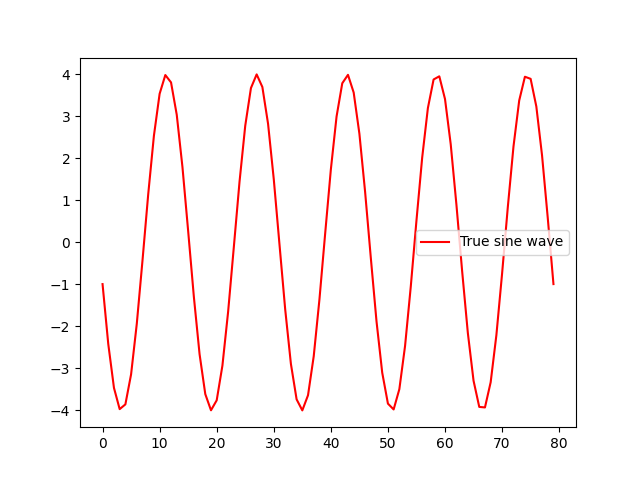
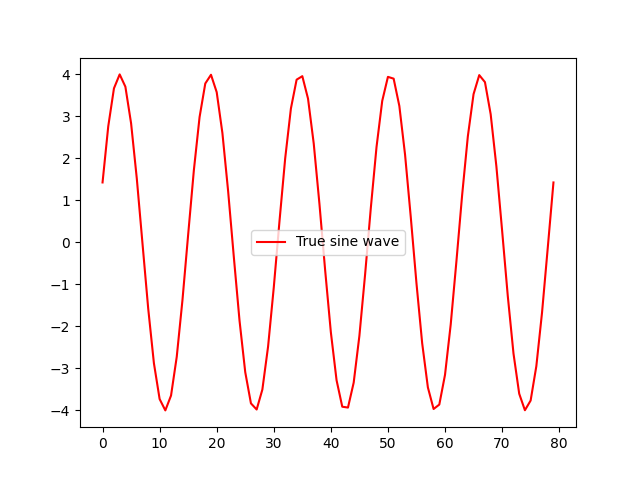
updated

diff --git a/src/network.py b/src/network.py
@@ -7,6 +7,33 @@ from modules import fsm
 import copy
 import numpy as np
 
+class LearnerRateScheduler:
+    def __init__(self, type, base_learning_rate, decay_rate, decay_steps, final_learning_rate = 0.0, warmup_epochs=10):
+        self.type = type
+        self.base_learning_rate = base_learning_rate
+        self.final_learning_rate = final_learning_rate
+        self.decay_rate = decay_rate
+        self.decay_steps = decay_steps
+        self.warmup_epochs = warmup_epochs
+        self.lr_init = 0.0
+    
+    def __call__(self, step):
+        if step < self.warmup_epochs:
+            #linear increase to base_learning_rate
+            return self.lr_init + (self.base_learning_rate-self.lr_init) * (step / self.warmup_epochs)
+        else:
+            if self.type == 'constant':
+                return self.base_learning_rate
+            elif self.type == 'linear':
+                pass
+            elif self.type == 'exponential':
+                pass
+            elif self.type == 'step':
+                return self.base_learning_rate * (self.decay_rate ** (int(step / self.decay_steps)))
+            else:
+                raise NotImplementedError
+            
+
 def get_weights(cfg, model):
     """Get the weights of the model.
 
@@ -89,7 +116,7 @@ def get_gradients(cfg, model, data, loss):
                 #perform the forward propagation step
                 y_perturbed = model_perturbed.forward(data)
                 #compute the loss
-                loss_perturbed = utils.mse_loss_seq(y_perturbed, data[:, :, -1:], batch_norm=True)
+                loss_perturbed = utils.mse_loss_seq(y_perturbed, data, batch_norm=True)
                 #compute the gradient
                 gradient_dict[key][index] = (loss_perturbed - loss) / cfg['training']['perturbation']
                 #after the gradient is computed, reset the weights to the original weights
@@ -143,30 +170,35 @@ def get_weight_updates(cfg, gradients, learning_rate):
     # return weight_updates
     
 
-def train(cfg, model, data, logger):
+def train(cfg, model, data, lr_schedule, logger):
     """Perform the training step.
 
     Args:
         cfg (config): config object
         model (model): model object. The model is expected to be initialized!
         data (np.ndarray): data array of shape (n_samples, n_timestamps, n_features)
+        lr_schedule (callable): learning rate scheduler function. The function should take the current epoch as input and return the learning rate.
         logger (logger): logger object to log the training process
     """
     epochs = cfg['training']['epochs']
-    learning_rate = cfg['training']['learning_rate']
     # gradient_computation = cfg['training']['gradient_computation']
-    optim = adam.Adam(lr=learning_rate)
+    optim = adam.Adam()
     for iter in range(epochs):
         output = model.forward(data['train']) # perform the forward propagation step
-        train_loss = utils.mse_loss_seq(output, data['train'][:, :, -1:], batch_norm=True)
+        train_loss = utils.mse_loss_seq(output, data['train'], batch_norm=True)
         gradients = get_gradients(cfg, model, data['train'], train_loss) # compute the gradients
-        weight_updates = get_weight_updates(cfg, gradients, learning_rate) # get the actual updates from the gradients
-        update_model_weights(cfg, model, weight_updates) # update the weights of the model
-        # params = optim.update(get_weights(cfg, model), weight_updates)
-        # set_weights(cfg, model, params)
+        # if learning_rate == 'auto':
+        #     weight_updates = get_weight_updates(cfg, gradients, lr_schedule(iter)) # get the actual updates from the gradients
+        # else:
+        #     weight_updates = get_weight_updates(cfg, gradients, learning_rate) # get the actual updates from the gradients
+            
+        # update_model_weights(cfg, model, weight_updates) # update the weights of the model
+        params = optim.update(get_weights(cfg, model), gradients, lr=lr_schedule(iter))
+        set_weights(cfg, model, params)
+        
         #fsm_model = fsm.FSM(model, state  = 'generate') # estimating the validation sequence
         # output_val = fsm_model(data['val'][:, 0:1, :], time = data['val'].shape[1])
         output_val = model.forward(data['val'])
-        val_loss = utils.mse_loss_seq(output_val, data['val'][:, :, -1:], batch_norm=True)
+        val_loss = utils.mse_loss_seq(output_val, data['val'], batch_norm=True)
         # del fsm_model # delete the fsm model since its not required anymore
         logger.log_epoch(iter, train_loss, val_loss) # log the mse_loss and store it in a file

diff --git a/src/main.py b/src/main.py
@@ -8,7 +8,27 @@ import network
 import logger
 from optimizer import adam, rmsprop
 from modules import fsm
+from network import LearnerRateScheduler
+from config import cfg
 
+
+
+lr_schedule = LearnerRateScheduler(cfg['training']['learning_rate'],0.1, 0.7, 20)
+plt.figure(figsize=(12, 5))
+plt.subplot(121)
+plt.plot([i for i in range(1, 1001)],[lr_schedule(i) for i in range(1000)], marker='.', linestyle='-')
+plt.title("Learning rate schedule")
+plt.xlabel("Epochs")
+plt.ylabel("Learning rate")
+plt.grid(True)
+plt.subplot(122)
+plt.semilogx([i for i in range(1, 1001)], [lr_schedule(i) for i in range(1000)], marker='.', linestyle='-')
+plt.title("Learning rate schedule (log scale)")
+plt.xlabel("Epochs")
+plt.ylabel("Learning rate")
+plt.grid(True)
+plt.savefig('src\\experiment1\\output\\figures\\learning_rate_schedule.png')
+plt.show()
 
 sine = sine_wave.SineWaveLoader(n_samples=100, time_stamps=80, amplitude=4.0, frequency=20.0)
 sine.load_data(attention = 0) # sine_wave_dict is of the size (train, test, val) x (n_samples, n_timesteps, n_features)
@@ -21,7 +41,6 @@ plt.legend()
 plt.savefig('src\\experiment1\\output\\figures\\input_data.png')
 plt.show()
 
-cfg = config.get_cfg()
 model_name = cfg['model']['name']
 input_size = cfg['model']['input_size']
 output_size = cfg['model']['output_size']
@@ -30,10 +49,12 @@ seed = cfg['training']['seed']
 
 log_file = logger.Logger(cfg['log']['log_file'], cfg['log']['experiment_name'])
 
+lr_schedule = LearnerRateScheduler(cfg['training']['learning_rate'],0.1, 0.7, 20)
+
 rnn_model = rnn_1hl.RNN(input_size, hidden_size, output_size, seed=seed)
 rnn_model.initialize()
 
-network.train(cfg, rnn_model, sine_wave_dict['data'], logger=log_file)
+network.train(cfg, rnn_model, sine_wave_dict['data'], lr_schedule, logger=log_file)
 
 log_file.close() #free up the logger file
 
@@ -41,7 +62,10 @@ plt.figure()
 plt.plot(sine_wave_dict['data']['test'][0, 2:, -1], 'r', label = "True")
 plt.plot(rnn_model.forward(sine_wave_dict['data']['test'])[0, 1:-1, -1], 'b', label = "Predicted")
 plt.legend()
-plt.savefig('./src/experiment1/output/figures/gen_seq_with_input_full_seq.png')
+plt.title("Input sine wave")
+plt.xlabel("Time samples")
+plt.ylabel("Amplitude")
+plt.savefig('./src/experiment1/output/figures/gen_seq_with_input_full_seq_{}.png'.format(rnn_model.seed))
 plt.show()
 
 
@@ -52,5 +76,8 @@ plt.figure()
 plt.plot(sine_wave_dict['data']['test'][0, :, -1], 'r', label = "True")
 plt.plot([generated_sequence[0, i, 0] for i in range(fsm_model.time)], 'b', label = "gen")
 plt.legend()
-plt.savefig('src\\experiment1\\output\\figures\\gen_seq_with_input_first_point.png')
+plt.title("Predicted sine wave")
+plt.xlabel("Time samples")
+plt.ylabel("Amplitude")
+plt.savefig('src\\experiment1\\output\\figures\\gen_seq_with_input_first_point_{}.png'.format(rnn_model.seed))
 plt.show()

diff --git a/src/exp2.py b/src/exp2.py
@@ -1,0 +1,65 @@
+import numpy as np
+import matplotlib.pyplot as plt
+from models import rnn_1hl
+from metrics import utils
+from data import sine_wave
+import config
+import network
+import logger
+from optimizer import adam, rmsprop
+from modules import fsm
+from network import LearnerRateScheduler
+from config import cfg
+
+
+lr_schedule = LearnerRateScheduler(cfg['training']['learning_rate'],1, 0.1, 30)
+plt.figure()
+plt.subplot(121)
+plt.plot([i for i in range(1, 1001)],[lr_schedule(i) for i in range(1000)], marker='.', linestyle='-')
+plt.title("Learning rate schedule")
+plt.xlabel("Epochs")
+plt.ylabel("Learning rate")
+plt.grid(True)
+plt.subplot(122)
+plt.semilogx([i for i in range(1, 1001)], [lr_schedule(i) for i in range(1000)], marker='.', linestyle='-')
+plt.title("Learning rate schedule (log scale)")
+plt.xlabel("Epochs")
+plt.ylabel("Learning rate")
+plt.grid(True)
+plt.show()
+
+import pickle
+with open('C:\\Users\\HP\\Downloads\\2020_worm_handoff\\chemotaxi_data', 'rb') as data:
+    dataset = pickle.load(data)
+
+with open('C:\\Users\\HP\\Downloads\\2020_worm_handoff\\chemotaxi_data_lenghts', 'rb') as data:
+    dataset_length = pickle.load(data)
+    
+m = min(dataset_length)
+dataset_l = {}
+dataset_l['train'] = dataset[:1, :m:100, 1:3]
+dataset_l['val'] = dataset[2:4, :m:100, 1:3]
+
+cfg = config.get_cfg()
+model_name = cfg['model']['name']
+input_size = cfg['model']['input_size']
+output_size = cfg['model']['output_size']
+hidden_size = cfg['model']['hidden_size']
+seed = cfg['training']['seed']
+
+log_file = logger.Logger(cfg['log']['log_file'], cfg['log']['experiment_name'])
+
+rnn_model = rnn_1hl.RNN(input_size, hidden_size, output_size, seed=seed)
+rnn_model.initialize()
+
+network.train(cfg, rnn_model, dataset_l, logger=log_file)
+
+
+log_file.close() #free up the logger file
+
+plt.figure()
+plt.scatter(dataset_l['train'][0, 2:, 1], dataset_l['train'][0, 2:, 2], marker = '.', color = 'r', label = "True")
+plt.scatter(rnn_model.forward(dataset_l['train'])[0, 1:-1, 1], rnn_model.forward(dataset_l['train'])[0, 1:-1, 2], marker = '.', color = 'b', label = "Predicted")
+plt.legend()
+# plt.savefig()
+plt.show()

diff --git a/src/data/sine_wave.py b/src/data/sine_wave.py
@@ -19,6 +19,7 @@ class SineWaveLoader:
             self.time_stamps = time_stamps # number of time stamps
             self.amplitude = amplitude # array of amplitudes
             self.frequency = frequency # array of frequencies
+            np.random.seed(self.SEED)
             self.phase = np.random.rand(self.n_samples) * 2 * np.pi # array of phases
         else:
             raise ValueError("Amplitude and frequency should be float values.")

diff --git a/src/experiment1/experiment1.md b/src/experiment1/experiment1.md
@@ -1,12 +1,21 @@
 # Testing out RNN with one hidden layer at sine wave prediction
 
-
 ## Aim of the experiment
+
 We provide a sinusoidal input to our RNN to train our RNN and next, generate the sine wave using the trained RNN. \
-This serves 2 purposes : 
+This serves 2 purposes :
+
 1. It verifies that our RNN with `wp` mode of gradient computation works
+
 2. Our RNN model works as a valid sequence generator
 
 ## Dataset explained
+
 `src/data/sine_wave.py` generates the sine wave samples for us\
 !Add image of sine wave generated
+
+## Experiment details
+
+We choose the following seeds for the weights initialization : 12, 23, ... \
+
+The following learning rate schedule is used : `LearnerRateScheduler(cfg['training']['learning_rate'],0.1, 0.7, 20)`
